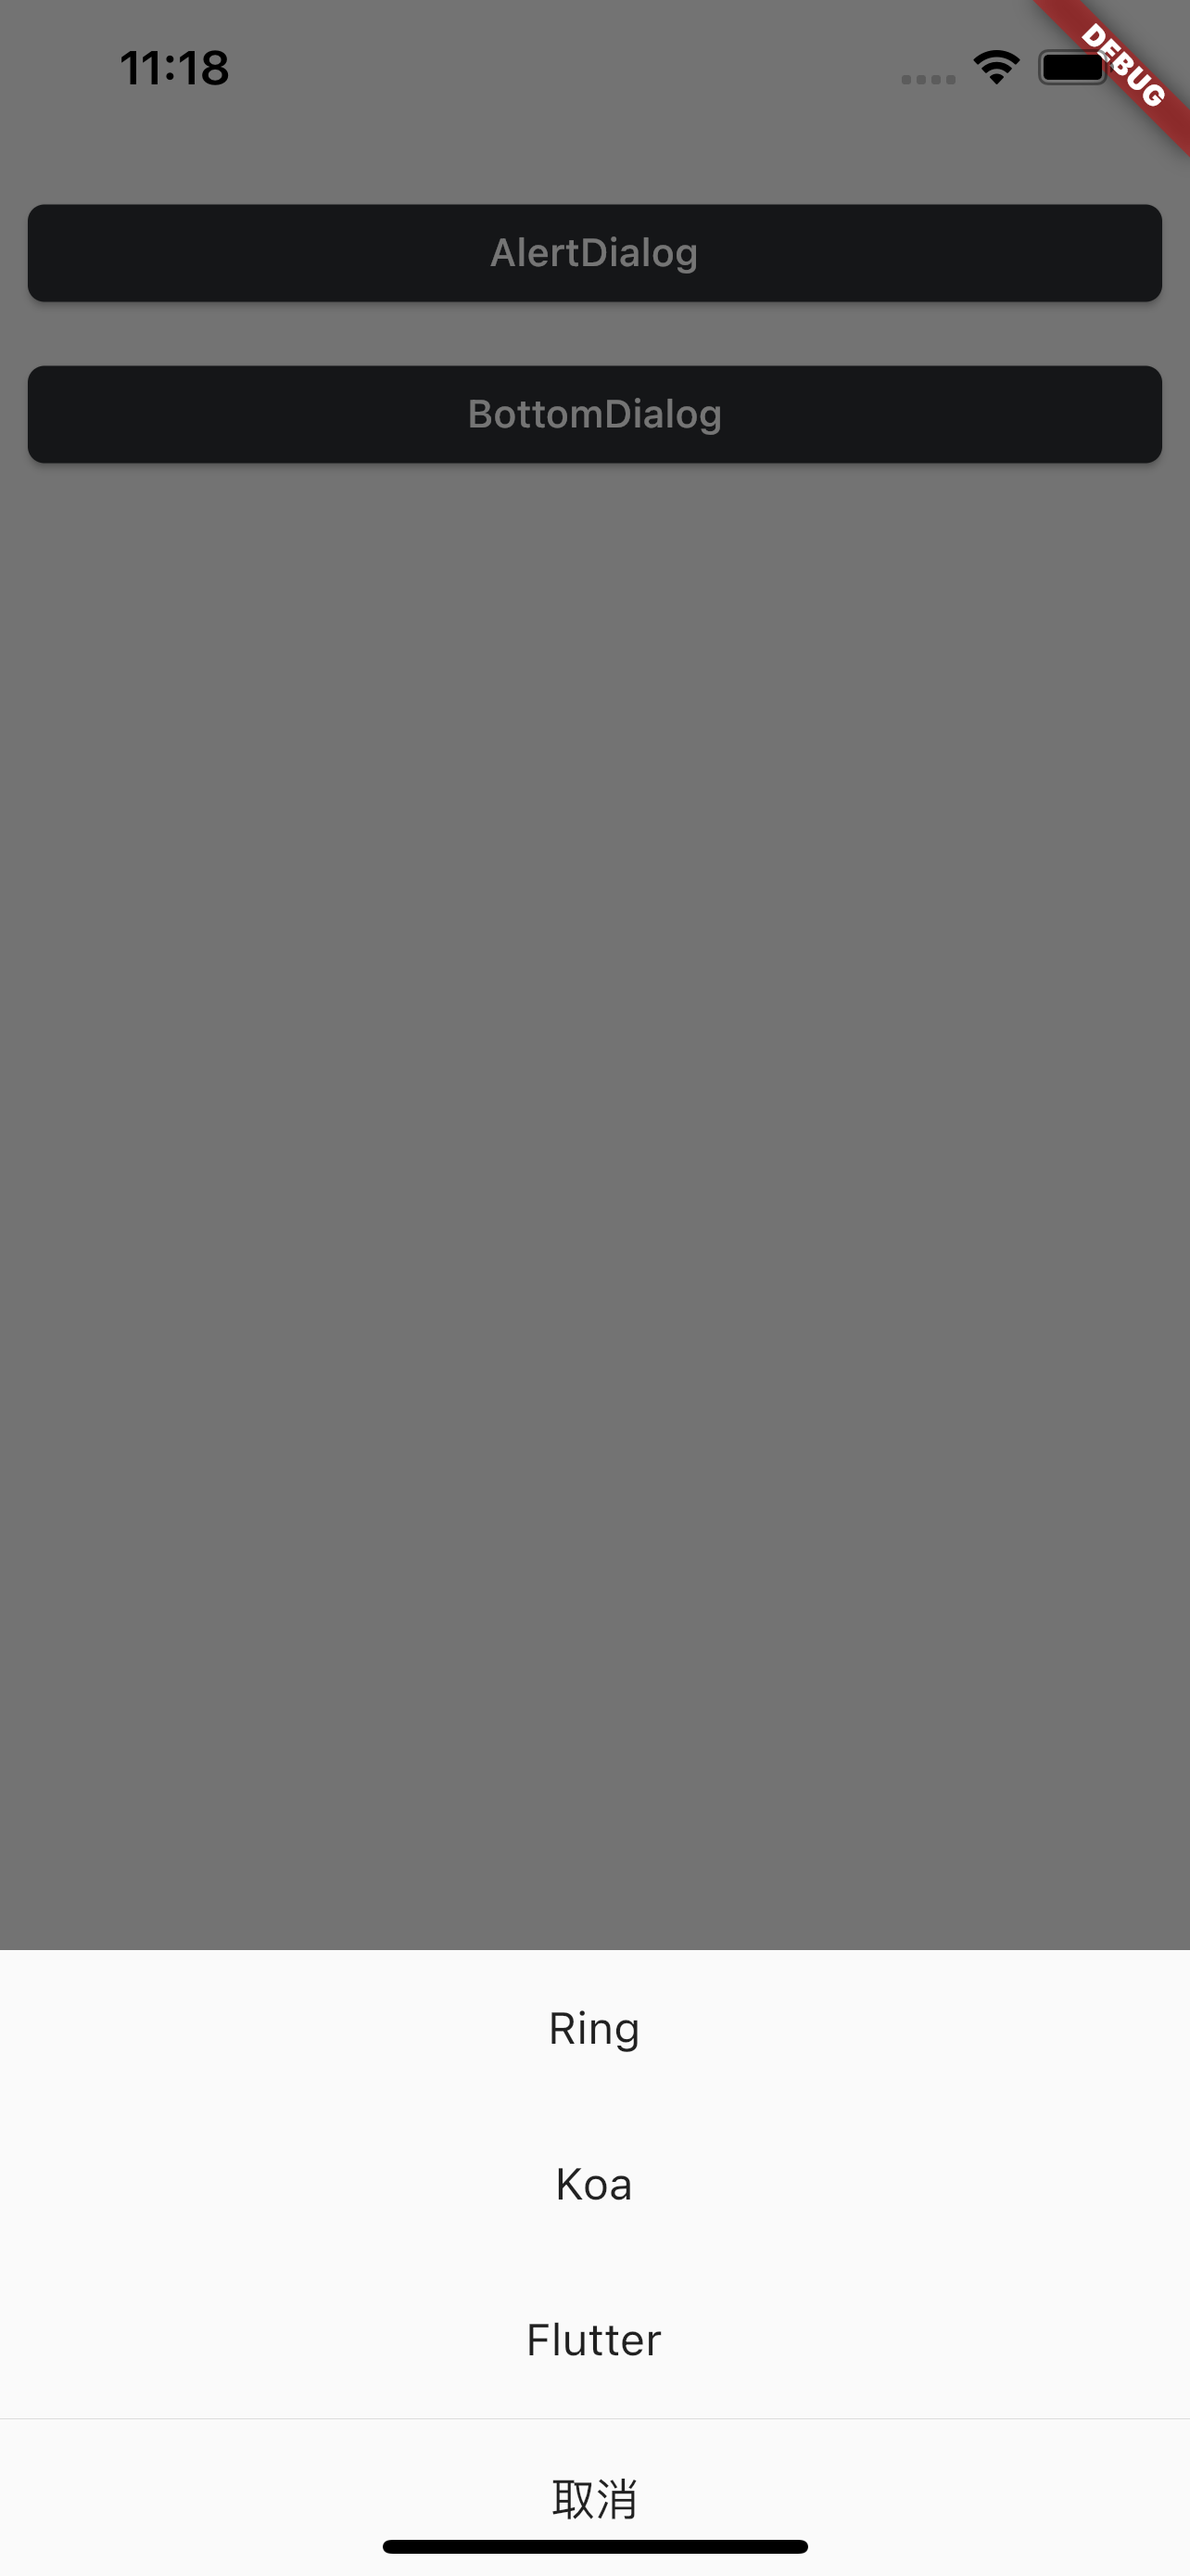
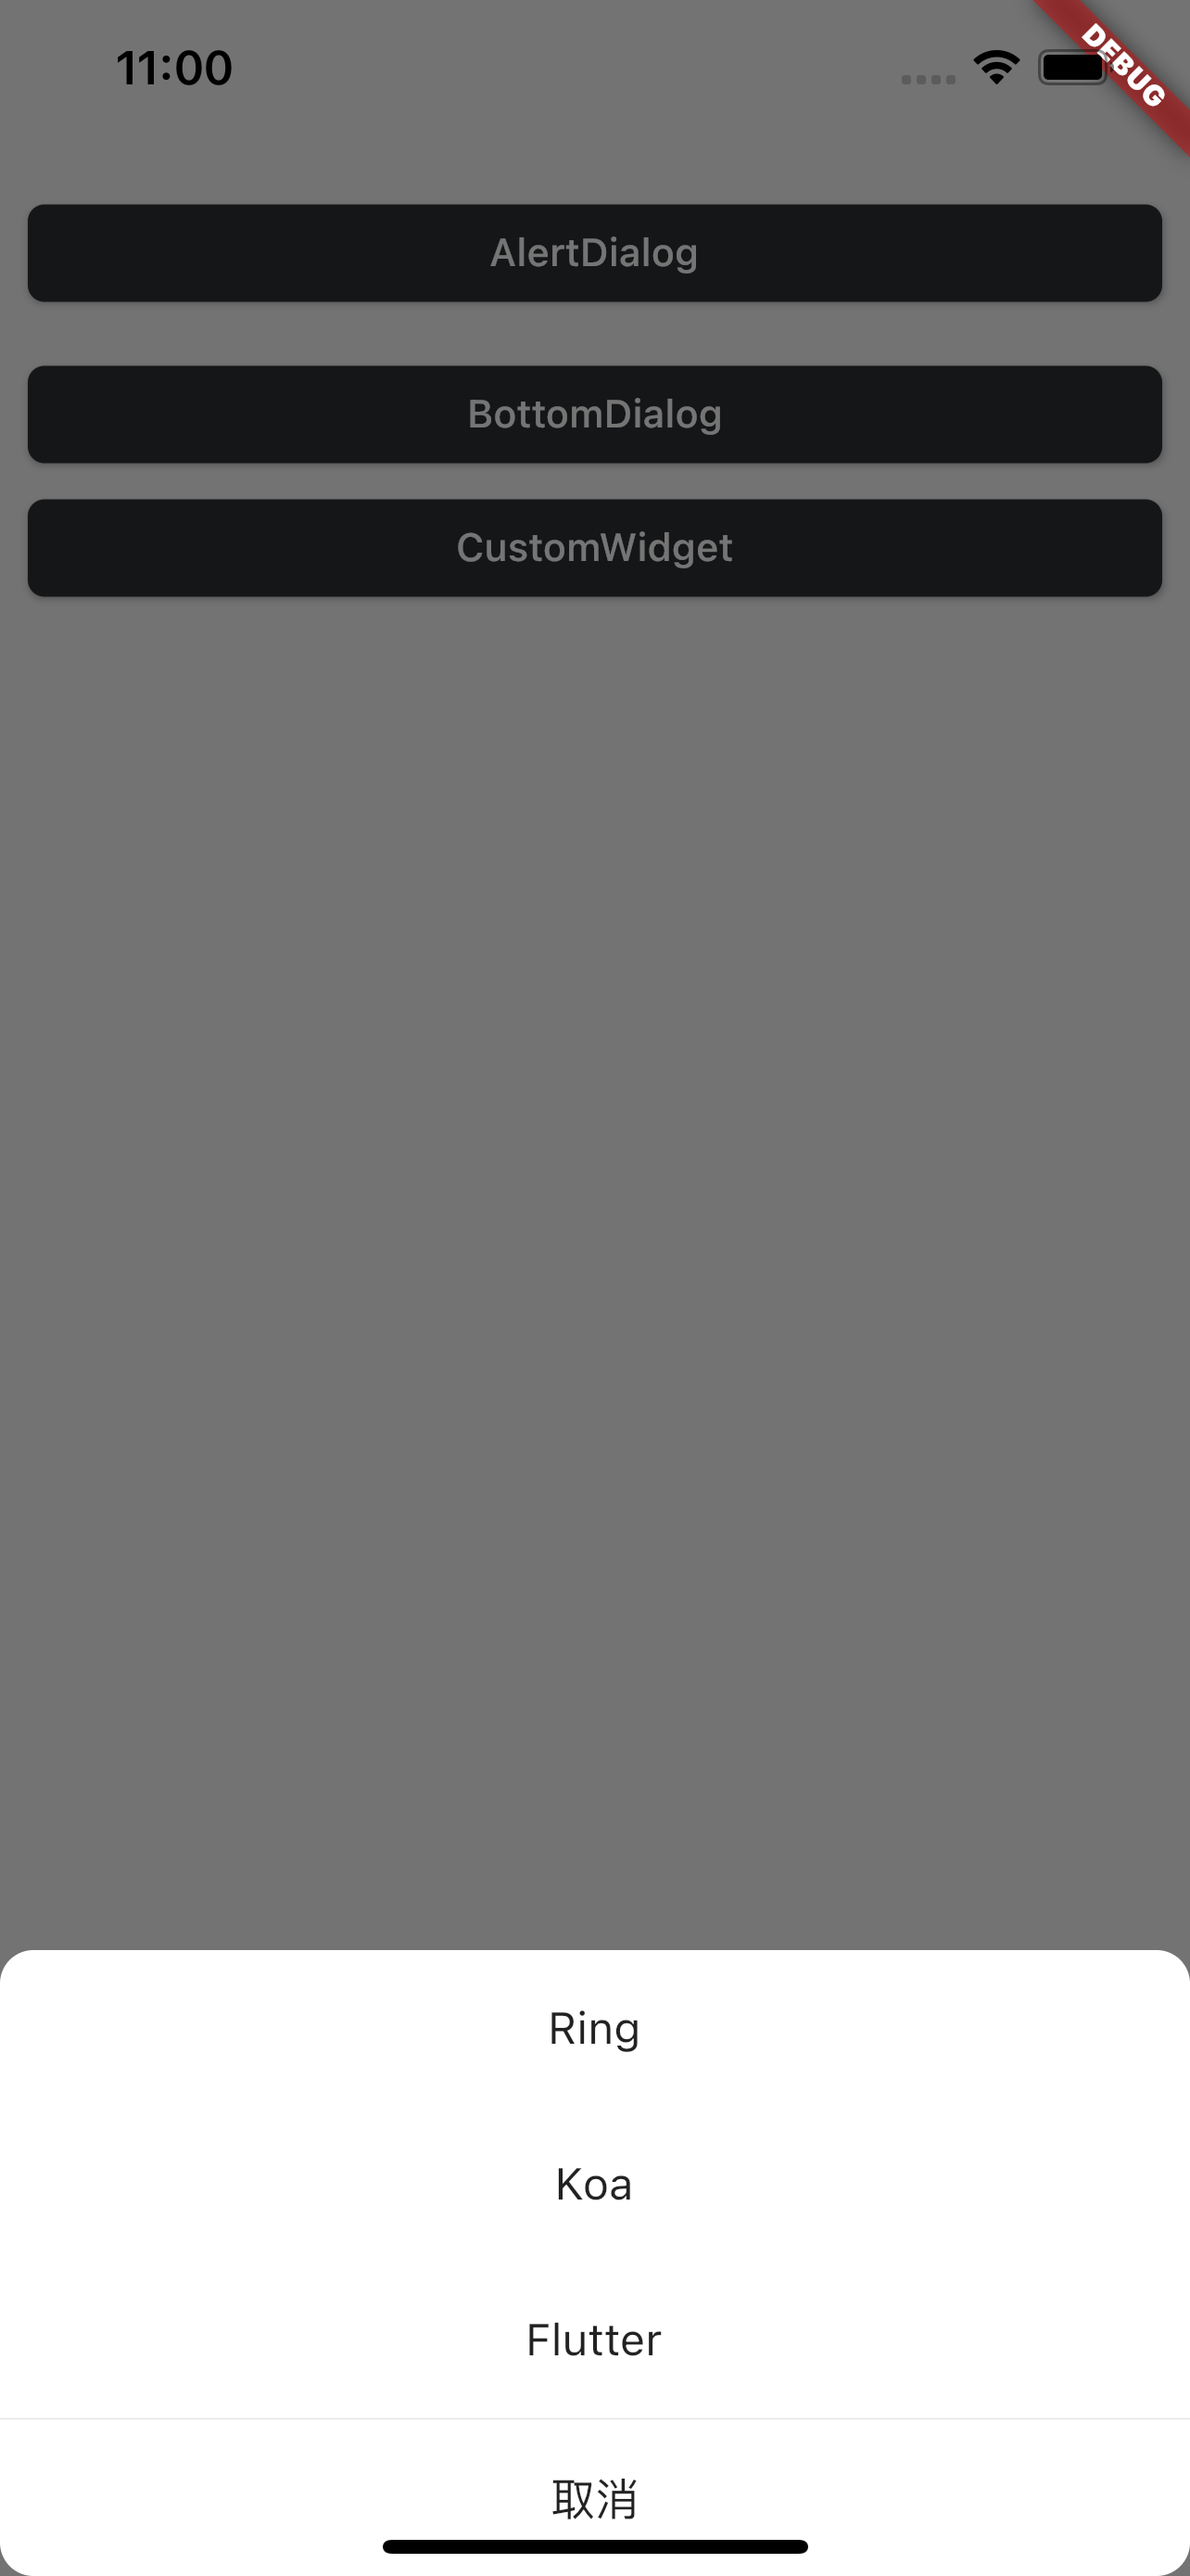
BottomDialog add circular

diff --git a/lib/src/z_dialog.dart b/lib/src/z_dialog.dart
@@ -35,62 +35,72 @@ class ZDialog {
 
   ///底部弹出框
   static void showBottomDialog(BuildContext context,
-      {List<String>? options, _ClickCallBack? onClick}) async {
+      {double circular = 10.0,
+      List<String>? options,
+      _ClickCallBack? onClick}) async {
     await showModalBottomSheet(
+        backgroundColor: Colors.transparent,
         context: context,
         builder: (context) {
-          return Column(
-            mainAxisSize: MainAxisSize.min,
-            children: [
-              Column(
-                mainAxisSize: MainAxisSize.min, //最小尺度占用空间
-                children: options != null
-                    ? options
-                        .asMap()
-                        .map((i, item) {
-                          return MapEntry(
-                              i,
-                              Column(
-                                children: [
-                                  ListTile(
-                                    onTap: () {
-                                      if (onClick != null) {
-                                        onClick(i, item);
-                                      }
-                                    },
-                                    title: ClipRRect(
-                                      borderRadius: BorderRadius.circular(20),
-                                      child: Center(
-                                          child: Text(
-                                        item,
-                                      )),
-                                    ),
-                                  )
-                                ],
-                              ));
-                        })
-                        .values
-                        .toList()
-                    : [],
-              ),
-              const Divider(
-                height: 1,
-              ),
-              ListTile(
-                onTap: () {
-                  if (onClick != null) {
-                    onClick(-1, '取消');
-                  }
-                },
-                title: ClipRRect(
-                  borderRadius: BorderRadius.circular(20),
-                  child: const Center(
-                      child: Text(
-                    '取消',
-                  )),
+          return Container(
+            decoration: BoxDecoration(
+                color: Colors.white,
+                borderRadius: BorderRadius.vertical(
+                    top: Radius.circular(circular),
+                    bottom: Radius.circular(circular))),
+            child: Column(
+              mainAxisSize: MainAxisSize.min,
+              children: [
+                Column(
+                  mainAxisSize: MainAxisSize.min, //最小尺度占用空间
+                  children: options != null
+                      ? options
+                          .asMap()
+                          .map((i, item) {
+                            return MapEntry(
+                                i,
+                                Column(
+                                  children: [
+                                    ListTile(
+                                      onTap: () {
+                                        if (onClick != null) {
+                                          onClick(i, item);
+                                        }
+                                      },
+                                      title: ClipRRect(
+                                        borderRadius: BorderRadius.circular(20),
+                                        child: Center(
+                                            child: Text(
+                                          item,
+                                        )),
+                                      ),
+                                    )
+                                  ],
+                                ));
+                          })
+                          .values
+                          .toList()
+                      : [],
                 ),
-              )
-            ],
+                const Divider(
+                  height: 1,
+                ),
+                ListTile(
+                  onTap: () {
+                    if (onClick != null) {
+                      onClick(-1, '取消');
+                    }
+                  },
+                  title: ClipRRect(
+                    borderRadius: BorderRadius.circular(20),
+                    child: const Center(
+                        child: Text(
+                      '取消',
+                    )),
+                  ),
+                )
+              ],
+            ),
           );
         });
   }

diff --git a/example/lib/main.dart b/example/lib/main.dart
@@ -72,6 +72,7 @@ class _HomePageState extends State<HomePage> {
               text: 'BottomDialog',
               onPressed: () async {
                 ZDialog.showBottomDialog(context,
+                    circular: 12,
                     options: ['Ring', 'Koa', 'Flutter'], onClick: (i, value) {
                   Navigator.of(context).pop();
                 });

diff --git a/README.md b/README.md
@@ -29,8 +29,6 @@ z_dialog is a brief Dialog
 <img src="https://github.com/hello-ring/z_dialog/blob/master/example/screenshot/4.png?raw=true" width="350" alt="build"></a>
 </p>
 
-## Getting started
-
 ## Usage
 
 to `/example` folder. 
@@ -57,7 +55,10 @@ ZDialog.showAlert(context,
         ),
     ]);
 
-ZAlert.showBottomDialog(context, options: ['Ring','Koa','Flutter'],
+ZAlert.showBottomDialog(
+    context, 
+    circular: 12,
+    options: ['Ring','Koa','Flutter'],
     onClick: (i, value) {
     Navigator.of(context).pop();
 });

diff --git a/CHANGELOG.md b/CHANGELOG.md
@@ -9,3 +9,6 @@ sync OverflowBar api change
 
 ## 1.1.0
 add CustomDialog
+
+## 1.1.1
+BottomDialog add circular
